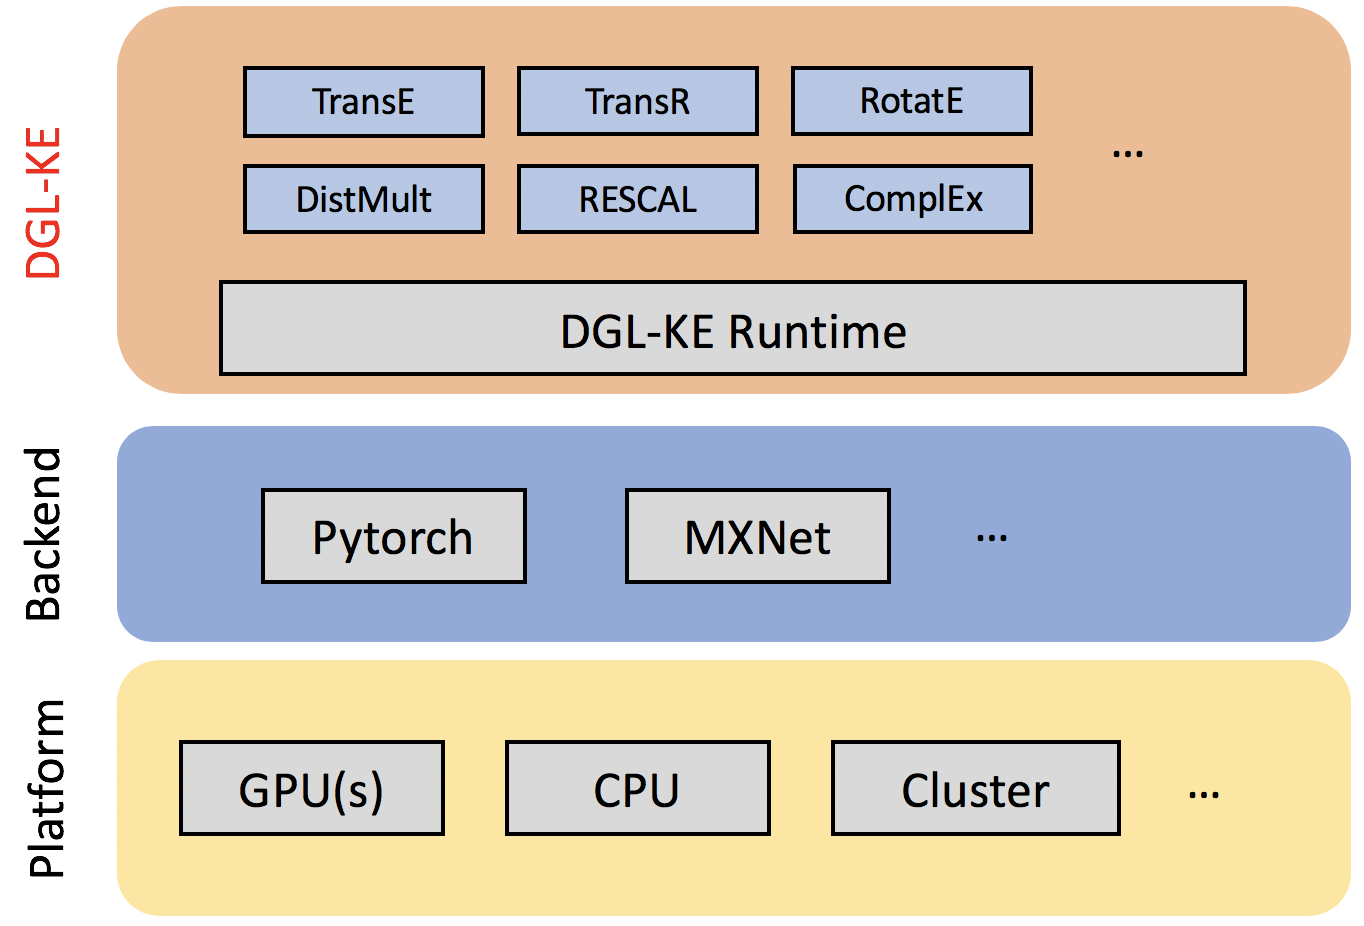
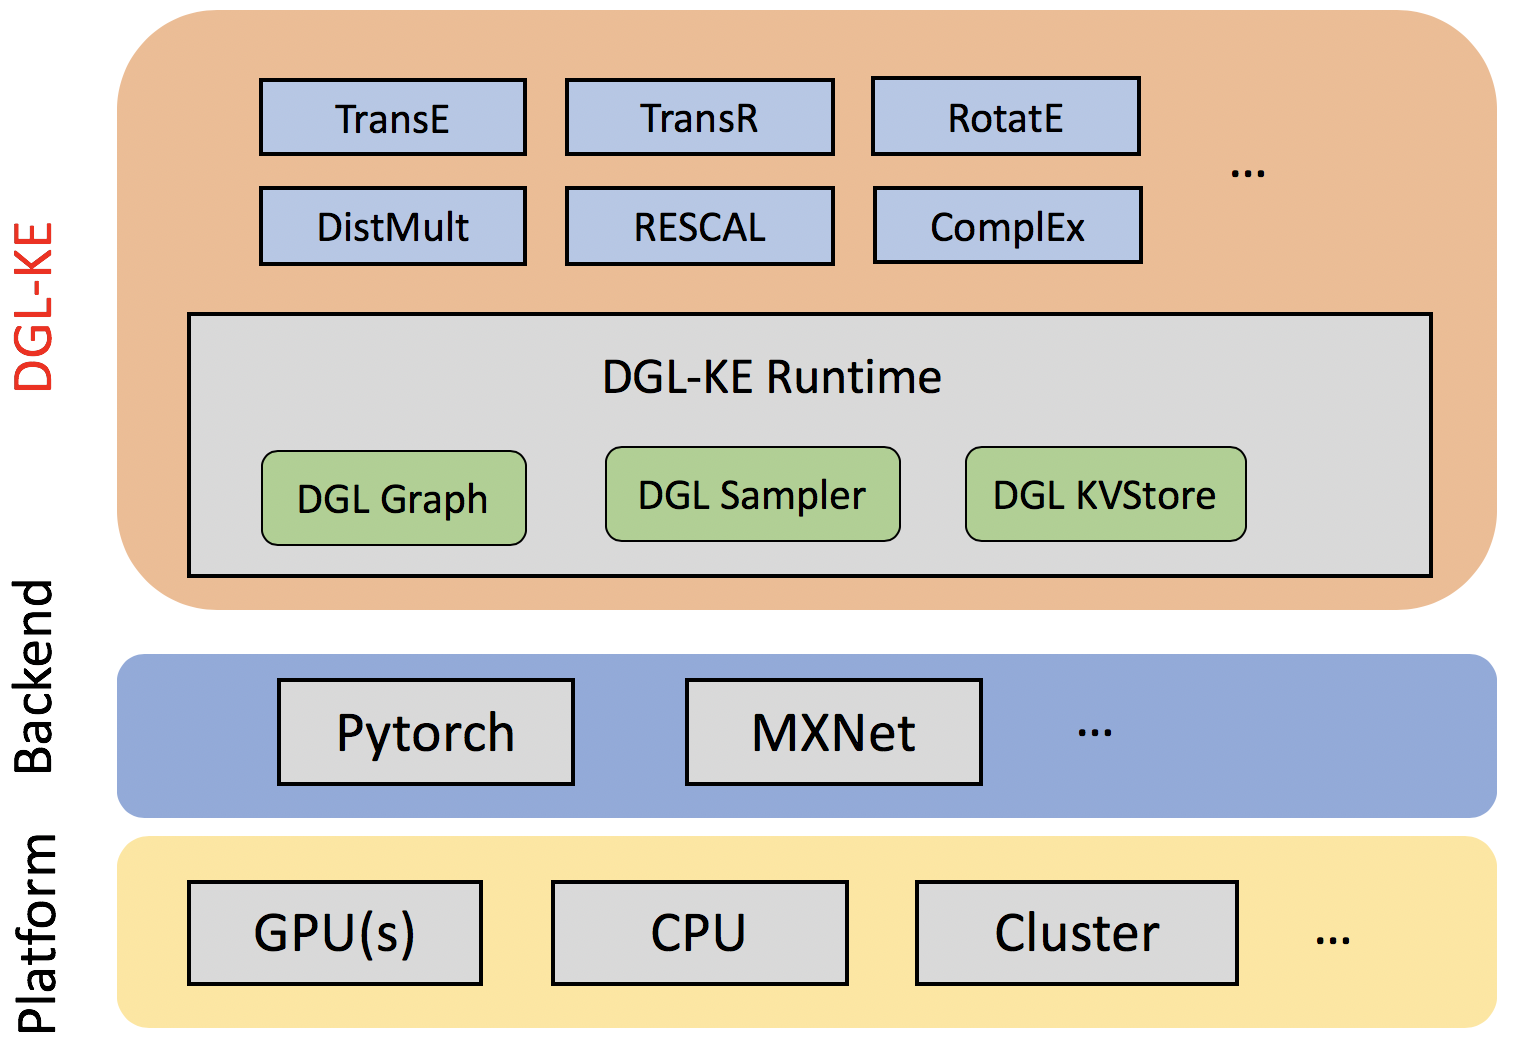
Update README.md (#31)
* Update README.md

* Update

* update img

diff --git a/README.md b/README.md
@@ -2,7 +2,7 @@
 
 [![License](https://img.shields.io/badge/License-Apache%202.0-blue.svg)](./LICENSE)
 
-DGL-KE is a high performance, easy-to-use, and scalable package for learning large-scale knowledge graph embeddings. The package is implemented on the top of *[Deep Graph Library (DGL)](https://github.com/dmlc/dgl)* and developers can run DGL-KE on CPU machine, GPU machine, as well as clusters with a number of popular models, including [TransE](https://www.utc.fr/~bordesan/dokuwiki/_media/en/transe_nips13.pdf), [TransR](https://www.aaai.org/ocs/index.php/AAAI/AAAI15/paper/viewPaper/9571), [RESCAL](http://citeseerx.ist.psu.edu/viewdoc/download?doi=10.1.1.383.2015&rep=rep1&type=pdf), [DistMult](https://arxiv.org/abs/1412.6575), [ComplEx](http://proceedings.mlr.press/v48/trouillon16.pdf), and [RotatE](https://arxiv.org/pdf/1902.10197.pdf).
+Knowledge graphs (KGs) are data structures that store information about different entities (nodes) and their relations (edges). A common approach of using KGs in various machine learning tasks is to compute knowledge graph embeddings. DGL-KE is a high performance, easy-to-use, and scalable package for learning large-scale knowledge graph embeddings. The package is implemented on the top of *[Deep Graph Library (DGL)](https://github.com/dmlc/dgl)* and developers can run DGL-KE on CPU machine, GPU machine, as well as clusters with a number of popular models, including [TransE](https://www.utc.fr/~bordesan/dokuwiki/_media/en/transe_nips13.pdf), [TransR](https://www.aaai.org/ocs/index.php/AAAI/AAAI15/paper/viewPaper/9571), [RESCAL](http://citeseerx.ist.psu.edu/viewdoc/download?doi=10.1.1.383.2015&rep=rep1&type=pdf), [DistMult](https://arxiv.org/abs/1412.6575), [ComplEx](http://proceedings.mlr.press/v48/trouillon16.pdf), and [RotatE](https://arxiv.org/pdf/1902.10197.pdf).
 
 <p align="center">
   <img src="https://github.com/awslabs/dgl-ke/blob/master/img/dgl_ke_arch.PNG" alt="DGL-ke architecture" width="600">
